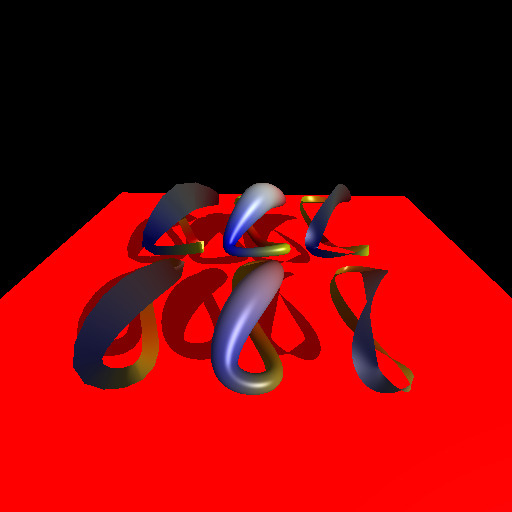
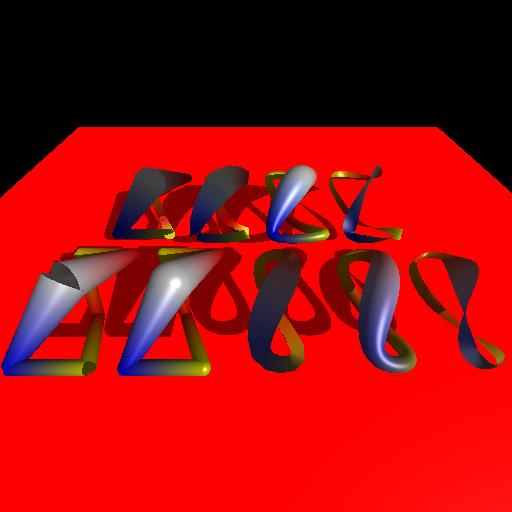
update curve tut and image update changelog and docs

diff --git a/doc/src/api/rtcNewGeometry.md b/doc/src/api/rtcNewGeometry.md
@@ -22,6 +22,7 @@
      RTC_GEOMETRY_TYPE_NORMAL_ORIENTED_BSPLINE_CURVE,
      RTC_GEOMETRY_TYPE_NORMAL_ORIENTED_HERMITE_CURVE,
      RTC_GEOMETRY_TYPE_NORMAL_ORIENTED_CATMULL_ROM_CURVE,
+     RTC_GEOMETRY_TYPE_CONE_LINEAR_CURVE,
      RTC_GEOMETRY_TYPE_ROUND_LINEAR_CURVE,
      RTC_GEOMETRY_TYPE_ROUND_BEZIER_CURVE,
      RTC_GEOMETRY_TYPE_ROUND_BSPLINE_CURVE,
@@ -58,7 +59,7 @@ bases (`RTC_GEOMETRY_TYPE_FLAT_LINEAR_CURVE`, `RTC_GEOMETRY_TYPE_FLAT_BEZIER_CUR
 `RTC_GEOMETRY_TYPE_FLAT_BSPLINE_CURVE`, `RTC_GEOMETRY_TYPE_FLAT_HERMITE_CURVE`,    
 `RTC_GEOMETRY_TYPE_FLAT_CATMULL_ROM_CURVE`, `RTC_GEOMETRY_TYPE_NORMAL_ORIENTED_BEZIER_CURVE`,
 `RTC_GEOMETRY_TYPE_NORMAL_ORIENTED_BSPLINE_CURVE`, `RTC_GEOMETRY_TYPE_NORMAL_ORIENTED_HERMITE_CURVE`,
-`RTC_GEOMETRY_TYPE_NORMAL_ORIENTED_CATMULL_ROM_CURVE`, `RTC_GEOMETRY_TYPE_ROUND_LINEAR_CURVE`, `RTC_GEOMETRY_TYPE_ROUND_BEZIER_CURVE`, `RTC_GEOMETRY_TYPE_ROUND_BSPLINE_CURVE`, 
+`RTC_GEOMETRY_TYPE_NORMAL_ORIENTED_CATMULL_ROM_CURVE`, `RTC_GEOMETRY_TYPE_CONE_LINEAR_CURVE`, `RTC_GEOMETRY_TYPE_ROUND_LINEAR_CURVE`, `RTC_GEOMETRY_TYPE_ROUND_BEZIER_CURVE`, `RTC_GEOMETRY_TYPE_ROUND_BSPLINE_CURVE`, 
 `RTC_GEOMETRY_TYPE_ROUND_HERMITE_CURVE`, `RTC_GEOMETRY_TYPE_ROUND_CATMULL_ROM_CURVE` types) 
 grid meshes (`RTC_GEOMETRY_TYPE_GRID`), point geometries
 (`RTC_GEOMETRY_TYPE_SPHERE_POINT`, `RTC_GEOMETRY_TYPE_DISC_POINT`,

diff --git a/doc/src/api/RTC_GEOMETRY_TYPE_CURVE.md b/doc/src/api/RTC_GEOMETRY_TYPE_CURVE.md
@@ -29,6 +29,9 @@
     RTC_GEOMETRY_TYPE_NORMAL_ORIENTED_CATMULL_ROM_CURVE - 
       flat normal oriented curve geometry with Catmull-Rom basis
 
+    RTC_GEOMETRY_TYPE_CONE_LINEAR_CURVE -
+      capped cone curve geometry with linear basis - discontinous at edge boundaries
+
     RTC_GEOMETRY_TYPE_ROUND_LINEAR_CURVE -
       capped cone curve geometry with linear basis and spherical ending
 
@@ -57,6 +60,7 @@
     rtcNewGeometry(device, RTC_GEOMETRY_TYPE_NORMAL_ORIENTED_BSPLINE_CURVE);
     rtcNewGeometry(device, RTC_GEOMETRY_TYPE_NORMAL_ORIENTED_HERMITE_CURVE);
     rtcNewGeometry(device, RTC_GEOMETRY_TYPE_NORMAL_ORIENTED_CATMULL_ROM_CURVE);
+    rtcNewGeometry(device, RTC_GEOMETRY_TYPE_CONE_LINEAR_CURVE);
     rtcNewGeometry(device, RTC_GEOMETRY_TYPE_ROUND_LINEAR_CURVE);
     rtcNewGeometry(device, RTC_GEOMETRY_TYPE_ROUND_BEZIER_CURVE);
     rtcNewGeometry(device, RTC_GEOMETRY_TYPE_ROUND_BSPLINE_CURVE);
@@ -76,6 +80,7 @@ created by passing `RTC_GEOMETRY_TYPE_FLAT_LINEAR_CURVE`,
 `RTC_GEOMETRY_TYPE_NORMAL_ORIENTED_FLAT_BSPLINE_CURVE`,
 `RTC_GEOMETRY_TYPE_NORMAL_ORIENTED_FLAT_HERMITE_CURVE`,
 `RTC_GEOMETRY_TYPE_NORMAL_ORIENTED_FLAT_CATMULL_ROM_CURVE`,
+`RTC_GEOMETRY_TYPE_CONE_LINEAR_CURVE`,
 `RTC_GEOMETRY_TYPE_ROUND_LINEAR_CURVE`,
 `RTC_GEOMETRY_TYPE_ROUND_BEZIER_CURVE`,
 `RTC_GEOMETRY_TYPE_ROUND_BSPLINE_CURVE`,

diff --git a/doc/src/tutorials.md b/doc/src/tutorials.md
@@ -277,7 +277,7 @@ Curve Geometry
 
 [![][imgCurveGeometry]](https://github.com/embree/embree/blob/master/tutorials/curve_geometry/curve_geometry_device.cpp)
 
-This tutorial demonstrates the use of the B-Spline and Catmull-Rom curve geometries.
+This tutorial demonstrates the use of the Linear Basis, B-Spline, and Catmull-Rom curve geometries.
 
 [Source Code](https://github.com/embree/embree/blob/master/tutorials/curve_geometry/curve_geometry_device.cpp)
 

diff --git a/doc/src/changelog.md b/doc/src/changelog.md
@@ -1,6 +1,10 @@
 Version History
 ---------------
 
+### Embree 3.12.0
+-   Added linear cone curve geometry support. In this mode a real geometric surface for curves
+    with linear basis is rendered using capped cones.  They are discontinuous at edge boundaries.
+
 ### Embree 3.11.0
 
 -   Round linear curves now automatically check for the existence of left and right
